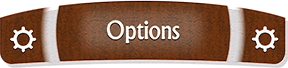
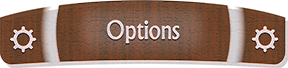
Résolution problème couleur bouton option

diff --git a/Projet/menu.c b/Projet/menu.c
@@ -32,10 +32,10 @@ Menu* creerMenu(){
 	Menu* menu = (Menu*)malloc(sizeof(Menu));
 	menu->fondMenu = IMG_Load("fondMenu3.png");
 
-	menu->tabBouton[0] = creerBouton(JOUER, "Bouton1.png");
+	menu->tabBouton[0] = creerBouton(JOUER, "Bouton0.png");
 	menu->tabBouton[1] = creerBouton(OPTIONS, "Bouton1.png");
-	menu->tabBouton[2] = creerBouton(REGLES, "Bouton1.png");
-	menu->tabBouton[3] = creerBouton(STATISTIQUES, "Bouton1.png");
+	menu->tabBouton[2] = creerBouton(REGLES, "Bouton2.png");
+	menu->tabBouton[3] = creerBouton(STATISTIQUES, "Bouton3.png");
 	
 	return menu;
 }
